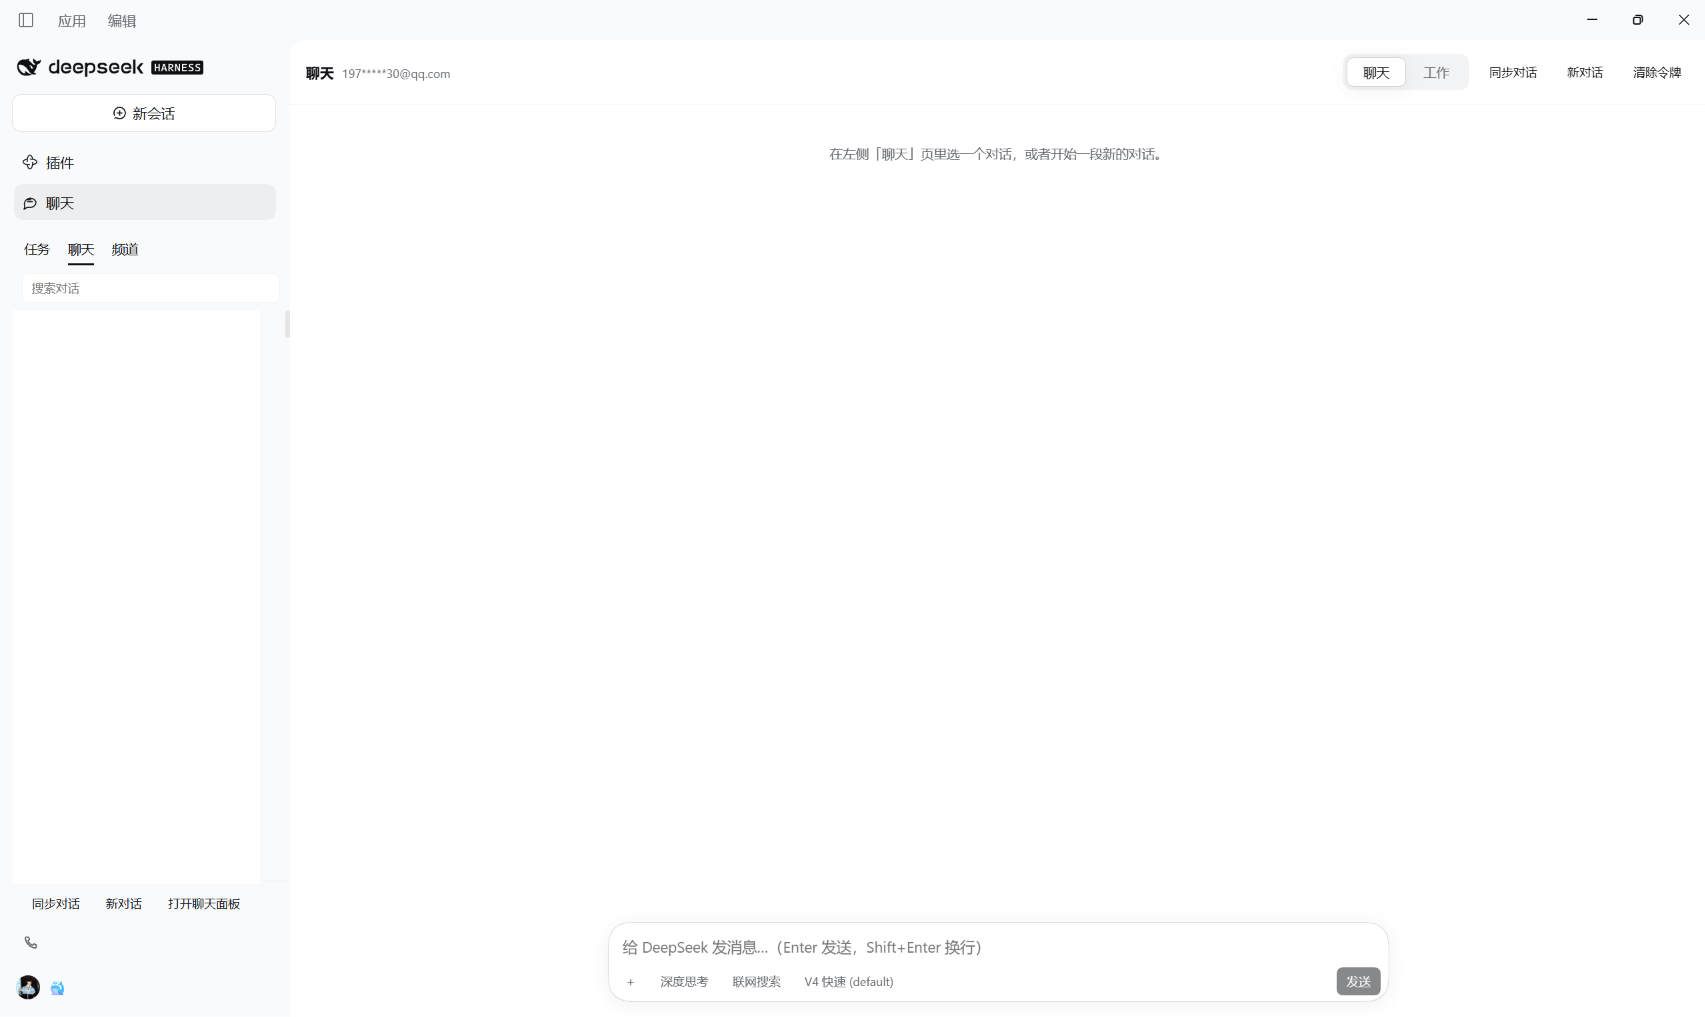
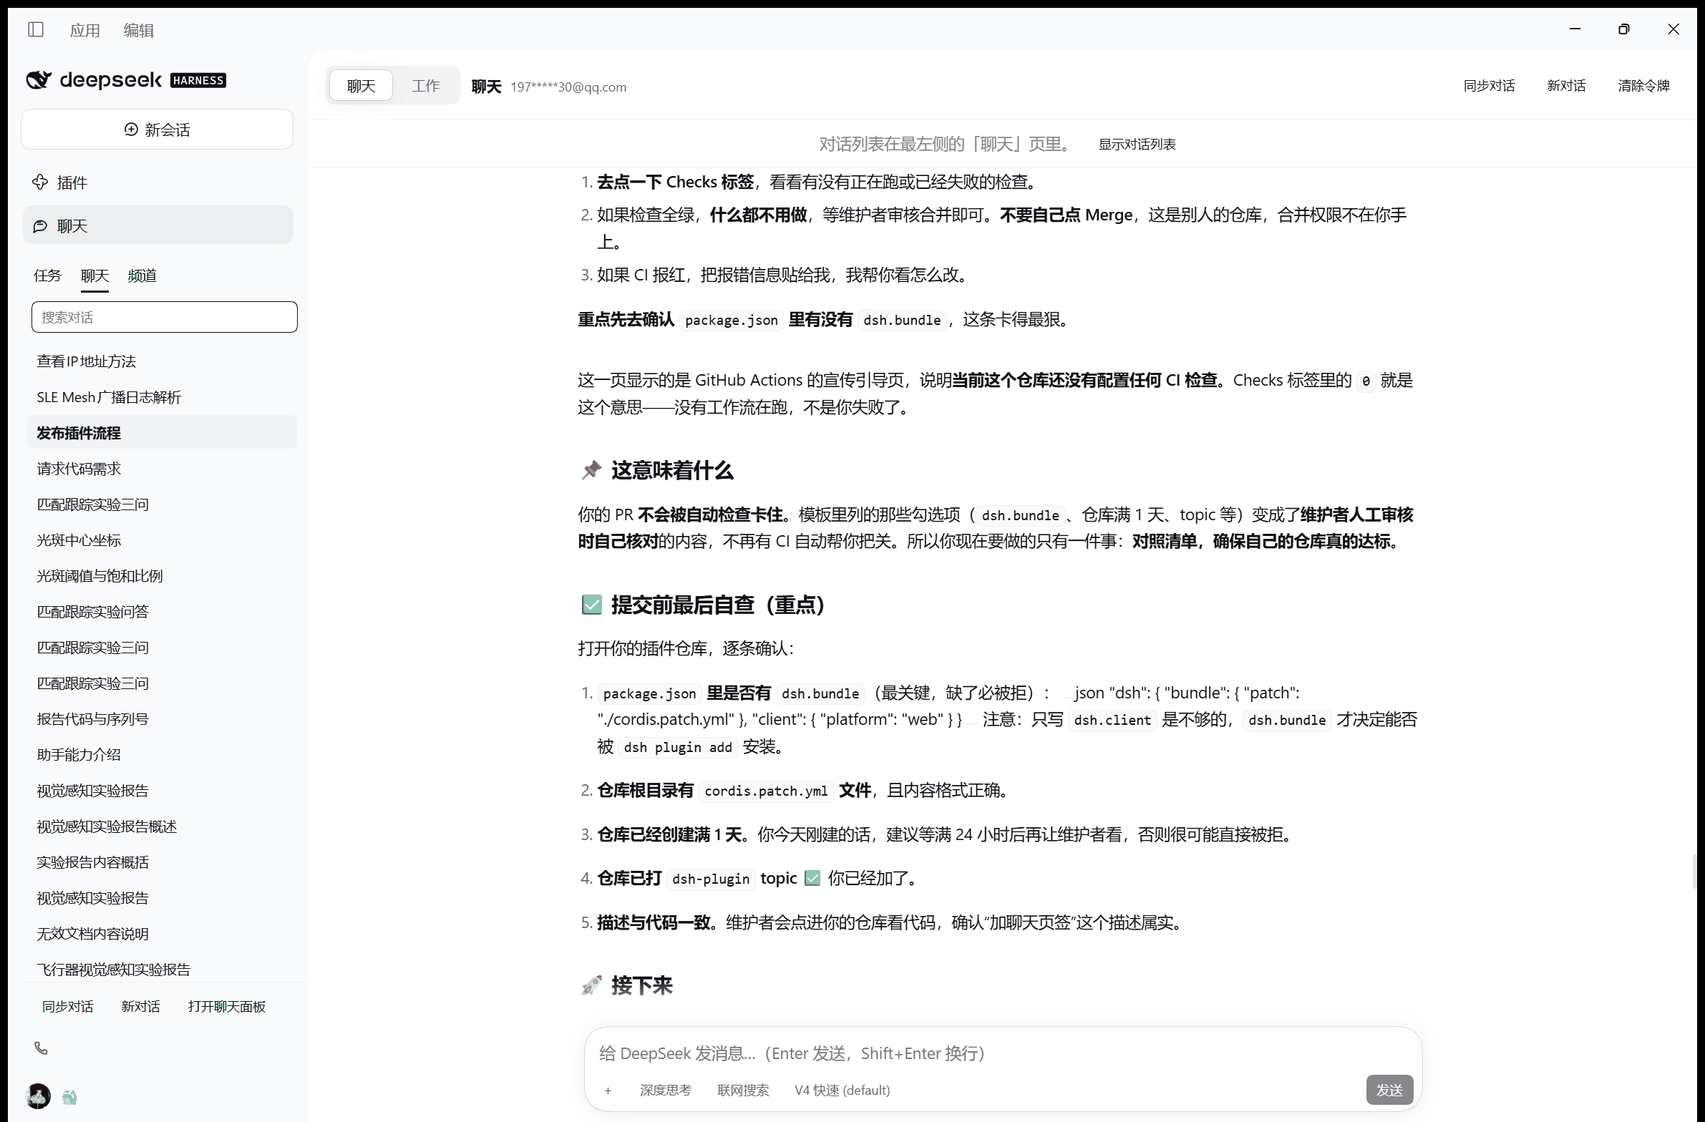
docs: 用真实界面截图替换空态图，并补一张代码高亮图
原来 docs/chat-mode.png 是空态：左栏「聊天」页里没有任何会话，正文只有一句
「选一个对话，或者开始一段新的对话」，既看不出这个插件到底长什么样，也不能
当作插件市场的宣传图。

这次用运行中的 DSH 真实界面重拍两张（1705x1122，装置 150% 缩放）：

- docs/chat-mode.png —— 聊天模式全貌：最左栏「聊天」页签选中、下面是真实会话
  列表（查看 IP 地址方法 / SLE Mesh 广播日志解析 / 发布插件流程 …），右侧是对
  话正文，**左上角**就是 聊天 ⇄ 工作 开关（fc23957 修好的位置）。
- docs/code-highlight.png —— yaml fenced 代码块：语言标题栏、关键字/字符串着色、
  行内代码高亮、右侧一键下载/复制/换行三枚按钮。

screenshots.json 现在声明两张图。插件市场的 registry 构建就是读仓库根目录的
screenshots.json 再拼成 raw.githubusercontent 的绝对地址（对照 clearai-dsh /
dsh-proactive / dsh-heartbeat / orbital-agents 四个已上架插件确认过），所以两张
图会一起出现在市场页上。

README.md 与 产品介绍.md 的「界面」段同步：图注里的「右上角」改成「左上角」，
并补上代码高亮那段的说明。

diff --git a/README.md b/README.md
@@ -10,10 +10,15 @@
 
 > 想先看「产品向」的介绍（亮点、架构图、三步安装）？见 👉 [产品介绍.md](产品介绍.md)。
 
-![聊天模式：会话列表在最左侧栏的「聊天」页里，正文在右侧，标题栏右侧是 聊天 ⇄ 工作 开关](docs/chat-mode.png)
+![聊天模式：会话列表在最左侧栏的「聊天」页里，正文在右侧，左上角是 聊天 ⇄ 工作 开关](docs/chat-mode.png)
 
 *聊天模式。会话记录住在**最左侧那一栏**的「聊天」页里（与「任务」「频道」并列），中间是对话正文，
-右上角就是 **聊天 ⇄ 工作** 开关——切回工作，中间立刻换回 DSH 的 Agent 会话。*
+左上角就是 **聊天 ⇄ 工作** 开关——切回工作，中间立刻换回 DSH 的 Agent 会话。*
+
+![代码块按语言上色：yaml 标题栏、关键字彩色、行内代码高亮](docs/code-highlight.png)
+
+*回答里的 fenced 代码块自带语言标题栏与一键下载，语法按语言着色（这里是 yaml），
+行内代码同样高亮——和网页端看到的一致。*
 
 ```
 ┌─ 侧栏 ─┬────────────── 聊天面板 ──────────────┐

diff --git a/产品介绍.md b/产品介绍.md
@@ -36,10 +36,14 @@ DeepSeek 网页版。
 
 ## 界面
 
-![聊天模式：会话列表在最左侧栏的「聊天」页里，正文在右侧，标题栏右侧是 聊天 ⇄ 工作 开关](docs/chat-mode.png)
+![聊天模式：会话列表在最左侧栏的「聊天」页里，正文在右侧，左上角是 聊天 ⇄ 工作 开关](docs/chat-mode.png)
 
 *聊天模式。会话记录住在**最左侧那一栏**的「聊天」页里（与「任务」「频道」并列），中间是对话正文，
-右上角就是 **聊天 ⇄ 工作** 开关——切回工作，中间立刻换回 DSH 的 Agent 会话。*
+左上角就是 **聊天 ⇄ 工作** 开关——切回工作，中间立刻换回 DSH 的 Agent 会话。*
+
+![代码块按语言上色：yaml 标题栏、关键字彩色、行内代码高亮](docs/code-highlight.png)
+
+*回答里的 fenced 代码块自带语言标题栏与一键下载，语法按语言着色（这里是 yaml），行内代码同样高亮。*
 
 下面是同一套布局的结构示意：
 
